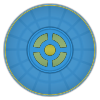
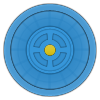
moving with animation doesn't move the body.  Try overriding the center property.

Changed region(s): [[0.03, 0.03, 0.96, 0.99], [0.24, 0.24, 0.75, 0.75], [0.33, 0.33, 0.48, 0.48]]

diff --git a/Classes/ViewController.m b/Classes/ViewController.m
@@ -53,6 +53,15 @@ void postSolveCollisionWithButtonAndScorePost(cpArbiter *arbiter, cpSpace *space
     cpSpaceAddPostStepCallback(space, (cpPostStepFunc)postStepRemove, b, NULL);
 }
 
+void postSolveCollisionWithButtonAndBumper(cpArbiter *arbiter, cpSpace *space, void *data) {
+    CP_ARBITER_GET_SHAPES(arbiter, a, b);
+    BWBumper *bumper = b->data;
+    NSLog(@"here");
+    [UIView animateWithDuration:0.1 animations:^{
+        bumper.frame = CGRectMake(bumper.frame.origin.x+20, bumper.frame.origin.y+20, bumper.frame.size.width, bumper.frame.size.height); 
+    }];
+}
+
 void postSolveCollision(cpArbiter *arbiter, cpSpace *space, void *data) {
     
 	if( cpArbiterIsFirstContact(arbiter) == NO ) 
@@ -113,6 +122,7 @@ void postSolveCollision(cpArbiter *arbiter, cpSpace *space, void *data) {
     
     cpSpaceAddCollisionHandler(space, 0, 1, NULL, NULL, (cpCollisionPostSolveFunc)postSolveCollision, NULL, NULL);
     cpSpaceAddCollisionHandler(space, 1, 2, NULL, NULL, (cpCollisionPostSolveFunc)postSolveCollisionWithButtonAndScorePost, NULL, self);
+    cpSpaceAddCollisionHandler(space, 1, 3, NULL, NULL, (cpCollisionPostSolveFunc)postSolveCollisionWithButtonAndBumper, NULL, self);    
 
     BWShooter *shooter = [[[BWShooter alloc] initWithFrame:CGRectMake(0, 0, 270, 270) color:ButtonColorGreen] autorelease];
     [shooter makeStaticBodyWithPosition:CGPointMake(self.view.bounds.size.width/2.0, 0)];
@@ -140,6 +150,7 @@ void postSolveCollision(cpArbiter *arbiter, cpSpace *space, void *data) {
     bottomScore.text = @"0";
     bottomScore.font = [UIFont boldSystemFontOfSize:24];
     [self.view addSubview:bottomScore];
+    
     
     
 }
@@ -240,14 +251,14 @@ void postSolveCollision(cpArbiter *arbiter, cpSpace *space, void *data) {
         
     }
     
-    BWBumper *bumper = [[[BWBumper alloc] init] autorelease];
+    [bumper release];
+    bumper = [[BWBumper alloc] init];
     [bumper makeStaticBodyWithPosition:CGPointMake(250, 500)];
     cpSpaceAddShape(space, bumper.shape);
     [self.view addSubview:bumper];
 }
 
 - (void)dealloc {
-	[fallingButton release];
 	
 	[super dealloc];
 }

diff --git a/Classes/ViewController.h b/Classes/ViewController.h
@@ -10,10 +10,12 @@
 
 void postSolveCollision(cpArbiter *arbiter, cpSpace *space, void *data);
 
+@class BWBumper;
 @interface ViewController : UIViewController <GameDelegate> {
 	CADisplayLink *displayLink;
 	cpSpace *space;
-	FallingButton *fallingButton;
+    
+    BWBumper *bumper;
     
     UILabel *topScore;
     UILabel *bottomScore;

diff --git a/Classes/BWBumper.m b/Classes/BWBumper.m
@@ -14,6 +14,7 @@
     if( (self = [super initWithFrame:CGRectMake(0, 0, 100, 100)]) ) {
         self.image = [UIImage imageNamed:@"Bumper.png"];
         cpShapeSetElasticity(self.shape, 1.0);
+        cpShapeSetCollisionType(self.shape, 3);
     }
     return self;
 }
